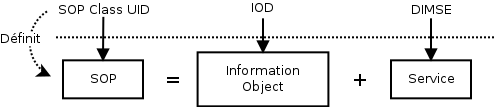
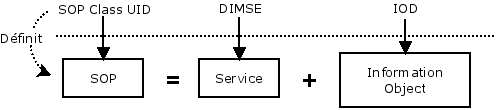
Cours final 16.11.2015

diff --git a/dicom-1/sections/3-principes.tex b/dicom-1/sections/3-principes.tex
@@ -94,7 +94,8 @@
 	{
 		\frametitle{Sch\'ema de construction du SOP}
 		\begin{center}
-			\includegraphics[width=\linewidth]{./figures/sop-definition.png}
+			\includegraphics<1>[width=\linewidth]{./figures/sop-definition.png}
+			\includegraphics<2>[width=\linewidth]{./figures/sop-definition-IOD.png}
 		\end{center}		
 	}
 
